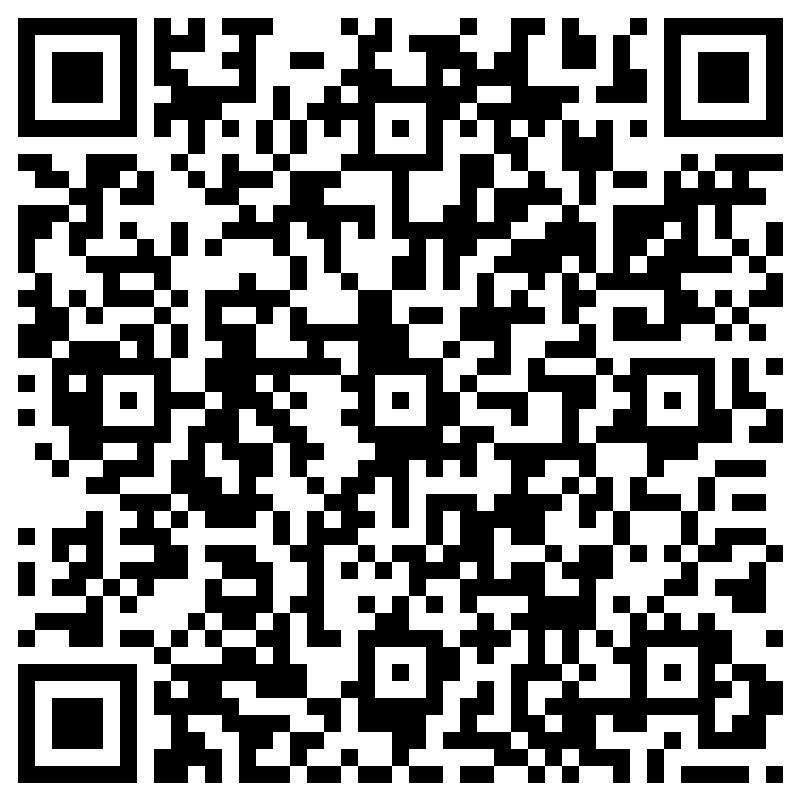
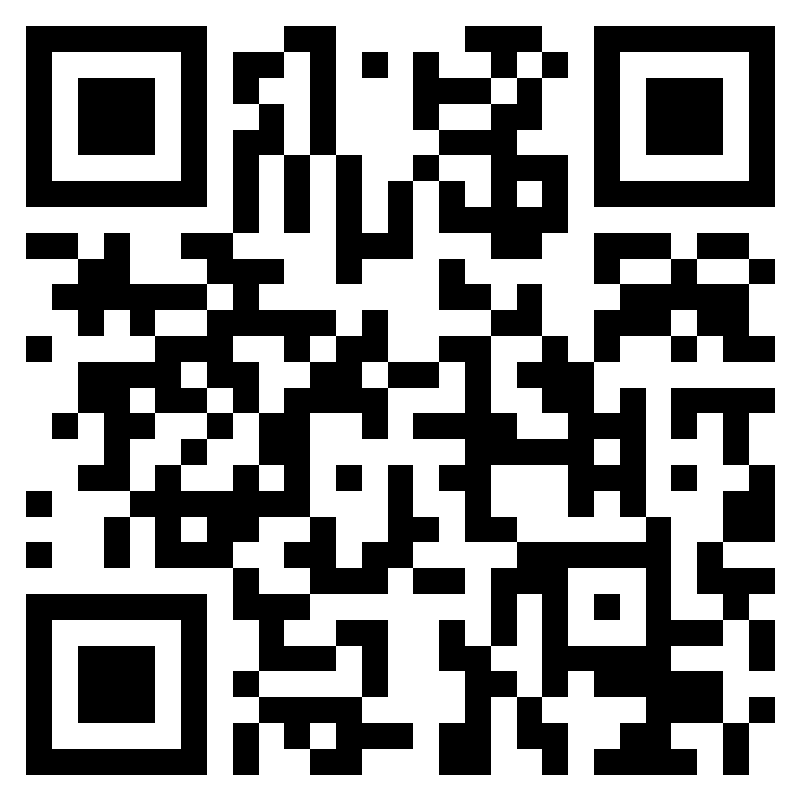
Update slides voor bijeenkomst 4

diff --git a/slides/src/04_weekly-standup-2.md b/slides/src/04_weekly-standup-2.md
@@ -15,9 +15,9 @@ Project Informatica / Q-highschool / Bijeenkomst 4
 
 ## "Planning"
 
-Samenwerkingsreflectie met Nasroel, ca. 20 min
+Samenwerkingsreflectie met Kristel en Laura, ca. 20 min
 
-Weekly standup met Arthur en/of Hugo, ca. 30 min
+Weekly standup met Arthur en/of Niek, ca. 30 min
 
 Verder gewoon aan het werk
 
@@ -45,7 +45,7 @@ Zet je Trello bord in beeld!
 
 ## Samenwerkingsreflectie
 
-<https://forms.office.com/e/EZhXcrw46R>
+<https://forms.office.com/e/ytwfUeCrCR>
 
 ![](assets/04_weekly-standup-2/samenwerkingsreflectie_qr.png)
 
